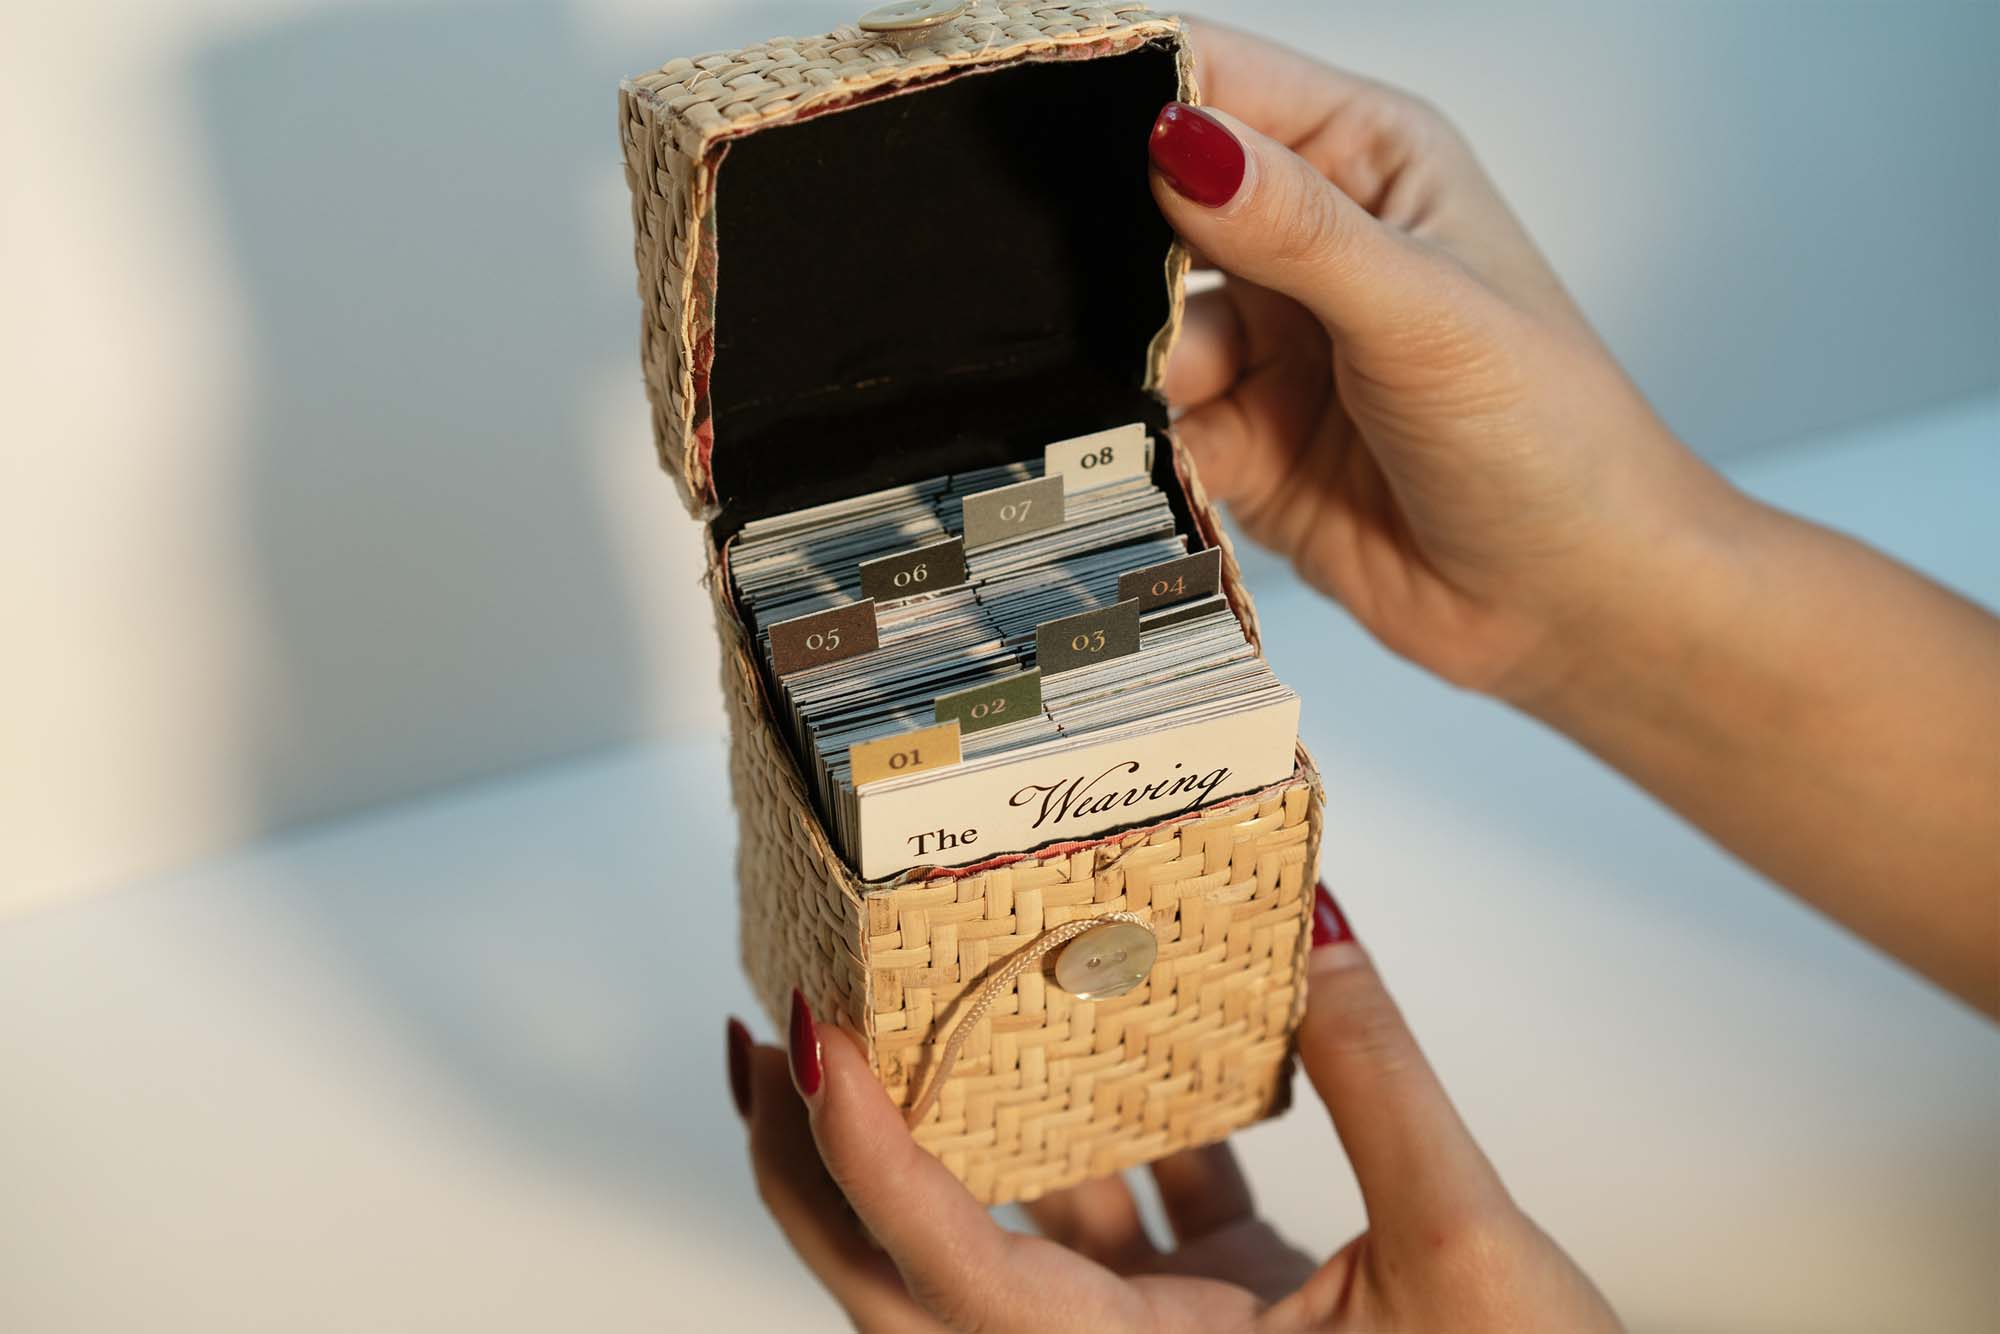
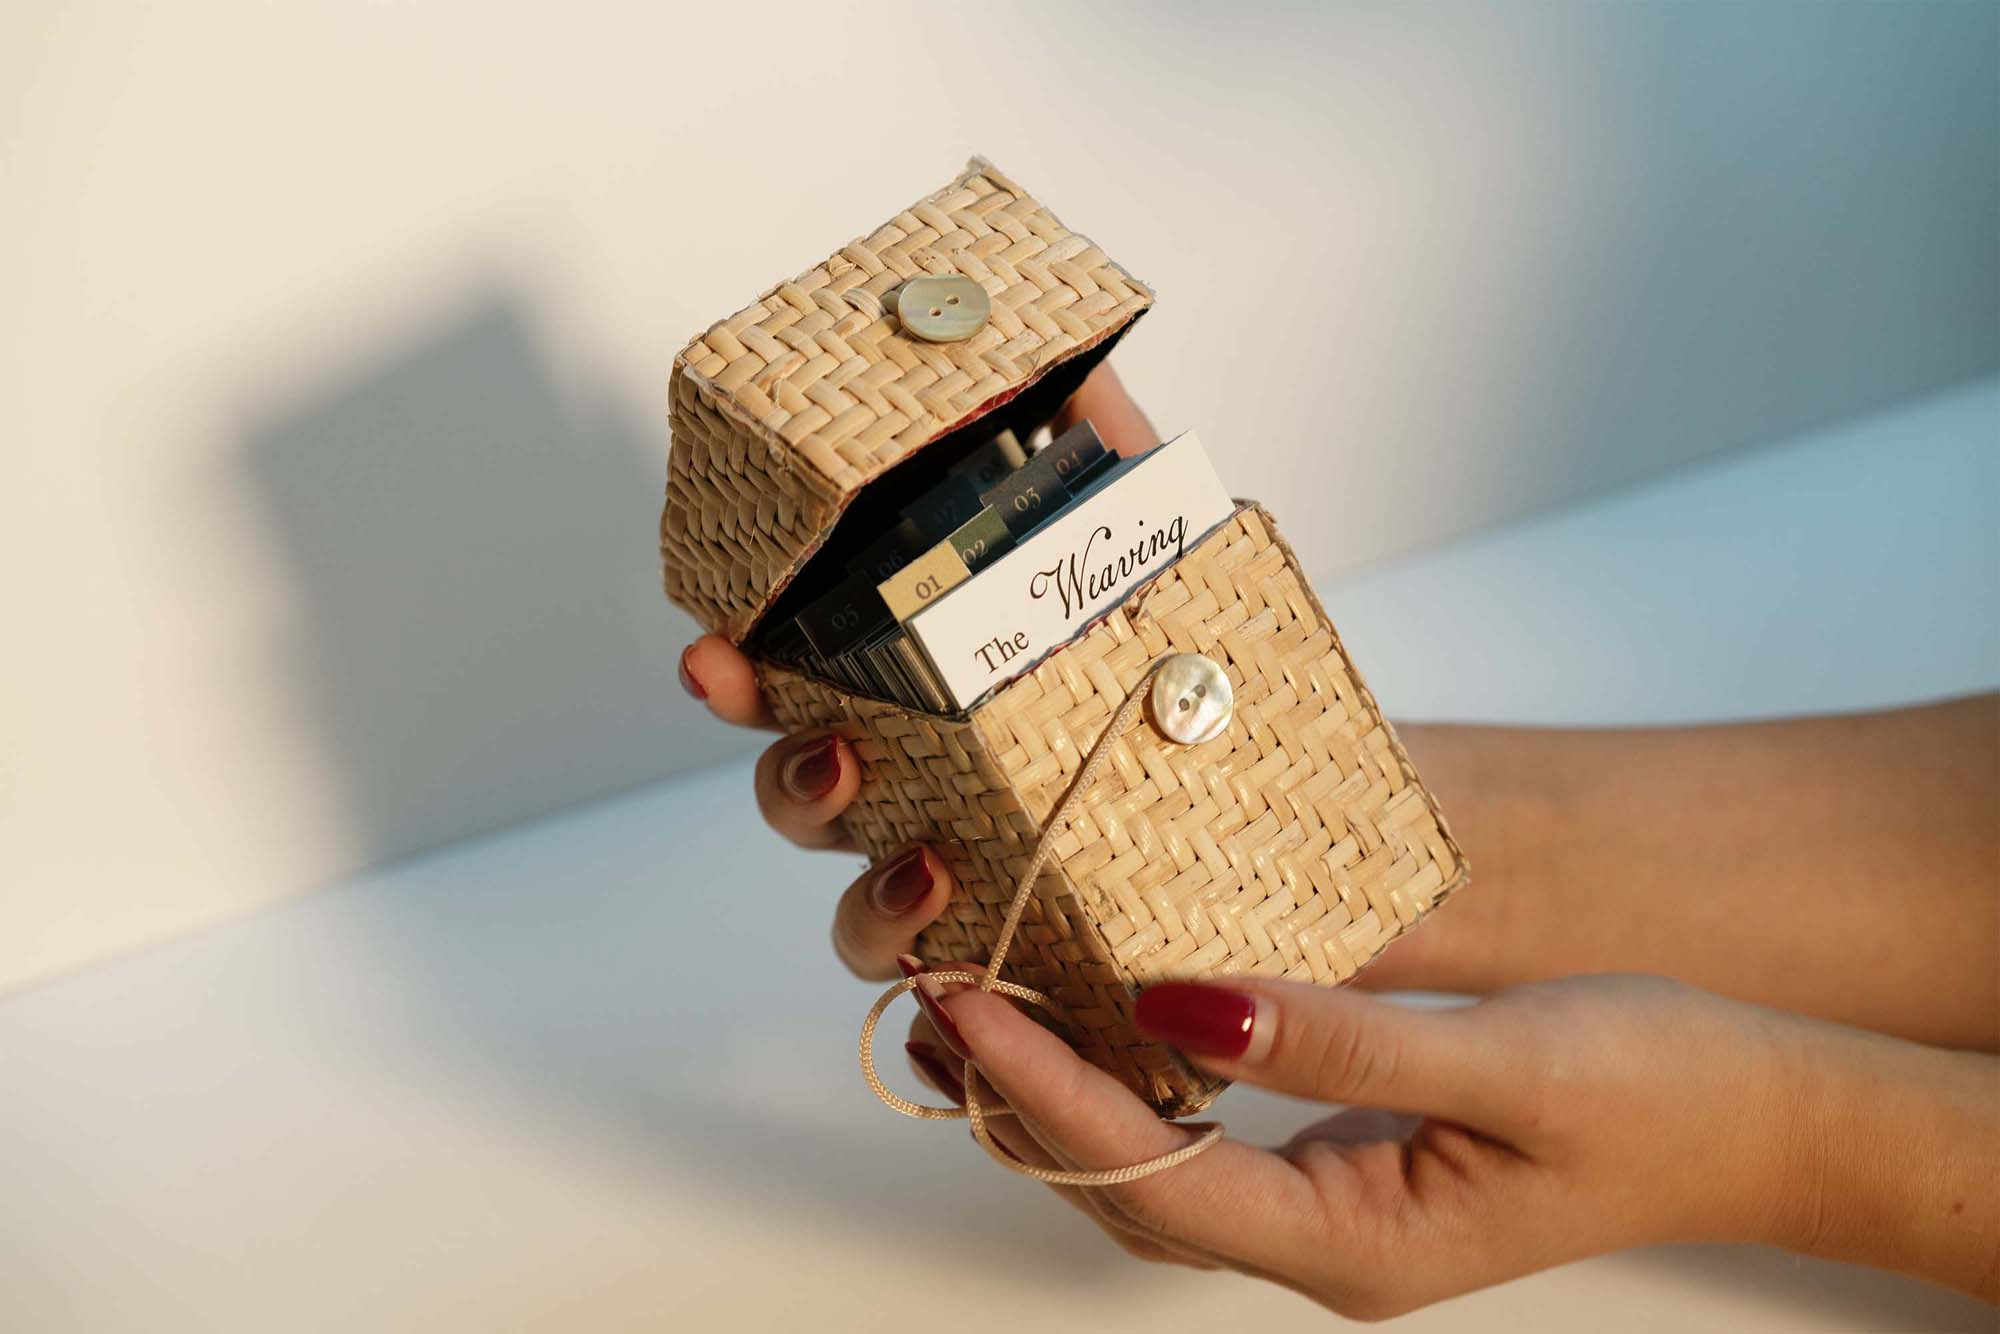
testing3

diff --git a/index.html b/index.html
@@ -160,7 +160,7 @@
                                     alt="Layered cyaotype installation showing humans and aquatic life."
                                     width="2400" height="1601" class="CommonImage-module-scss-module__qaK7rG__image"
                                     style="aspect-ratio:1.5"><img
-                                    src="images/install-detail-p.jpg"
+                                    src="./images/install-detail-p.jpg"
                                     alt="Layered cyaotype installation showing humans and aquatic life."
                                     width="2400" height="1556" class="CommonImage-module-scss-module__qaK7rG__image"
                                     style="aspect-ratio:1.5"></div>
@@ -186,13 +186,19 @@
                             <div class="SlideshowThumbnails-module-scss-module__l8fZQq__items"><button
                                     class="SlideshowThumbnails-module-scss-module__l8fZQq__item SlideshowThumbnails-module-scss-module__l8fZQq__ACTIVE"><img
                                         src="./images/install-cover.jpg"
-                                        alt="A kitchen dining nook with a built-in bench and an oval table set before a large arched window with a pendant light."
+                                        alt="Layered cyaotype installation showing humans and aquatic life."
                                         width="2400" height="1601"
                                         class="SlideshowThumbnails-module-scss-module__l8fZQq__image CommonImage-module-scss-module__qaK7rG__image"
                                         style="aspect-ratio:1.5"></button><button
                                     class="SlideshowThumbnails-module-scss-module__l8fZQq__item SlideshowThumbnails-module-scss-module__l8fZQq__INACTIVE"><img
                                         src="images/install-coverdark.jpg"
-                                        alt="A bedroom with taupe walls and double doors, a bed with a green headboard, and a freestanding mirror next to a window."
+                                        alt="Layered cyaotype installation showing humans and aquatic life with a stopmotion behind."
+                                        width="2400" height="1556"
+                                        class="SlideshowThumbnails-module-scss-module__l8fZQq__image CommonImage-module-scss-module__qaK7rG__image"
+                                        style="aspect-ratio:1.5"></button
+                                    class="SlideshowThumbnails-module-scss-module__l8fZQq__item SlideshowThumbnails-module-scss-module__l8fZQq__INACTIVE"><img
+                                        src="images/install-detail-h.jpg"
+                                        alt="Close up of layered cyaotype installation showing humans and aquatic life."
                                         width="2400" height="1556"
                                         class="SlideshowThumbnails-module-scss-module__l8fZQq__image CommonImage-module-scss-module__qaK7rG__image"
                                         style="aspect-ratio:1.5"></button>
@@ -212,7 +218,7 @@
                             href="bodiesofwater2.html"><span>Bodies of Water (2/2)</span></a>
                         <div class="SlideshowDefault-module-scss-module__XK5D_G__container">
                             <div class="SlideshowDefault-module-scss-module__XK5D_G__inner"><img
-                                    src="./images/thesis submission - cubes.jpg"
+                                    src="./images/cubes-cover.jpg"
                                     alt="Dining Table with wood chairs and fabric lantern" width="2400" height="1601"
                                     class="CommonImage-module-scss-module__qaK7rG__image" style="aspect-ratio:1.5"><img
                                     src="images/cubes-cover.jpg"
@@ -243,7 +249,7 @@
                             <div class="SlideshowThumbnails-module-scss-module__l8fZQq__items"><button
                                     class="SlideshowThumbnails-module-scss-module__l8fZQq__item SlideshowThumbnails-module-scss-module__l8fZQq__ACTIVE"><img
                                         src="images/cubes-cover.jpg"
-                                        alt="Dining Table with wood chairs and fabric lantern" width="2400"
+                                        alt="Artist book, container, and " width="2400"
                                         height="1601"
                                         class="SlideshowThumbnails-module-scss-module__l8fZQq__image CommonImage-module-scss-module__qaK7rG__image"
                                         style="aspect-ratio:1.5"></button><button
@@ -274,14 +280,14 @@
                             href="/theweaving.html"><span>The Weaving</span></a>
                         <div class="SlideshowDefault-module-scss-module__XK5D_G__container">
                             <div class="SlideshowDefault-module-scss-module__XK5D_G__inner"><img
-                                    src="./images/theweaving1.png"
+                                    src="./images/theweaving-cover.jpg"
                                     alt="Sophisticated Brownstone Living Room with english roll armchair, sofa and marble fireplace."
                                     width="2400" height="1601" class="CommonImage-module-scss-module__qaK7rG__image"
                                     style="aspect-ratio:1.5"><img
-                                    src="images/036fcff9a93e9408efc03560667c0a6f6bcb4d9a-3000x2001.jpg"
+                                    src="./images/theweaving-cover.jpg"
                                     alt="Devol Kitchen with green cabinets and plaster walls" width="2400" height="1601"
                                     class="CommonImage-module-scss-module__qaK7rG__image" style="aspect-ratio:1.5"><img
-                                    src="images/1054100f50995d278372588ea68fc53e7b048252-3000x2001.jpg"
+                                    src="./images/theweaving-cover.jpg"
                                     alt="Walnut dining room table with circular glass pendant above" width="2400"
                                     height="1601" class="CommonImage-module-scss-module__qaK7rG__image"
                                     style="aspect-ratio:1.5"></div>
@@ -289,7 +295,7 @@
                         <div
                             class="ProjectCard-module-scss-module__pM93sa__details ProjectCardDetails-module-scss-module__4TMqsW__container ProjectCardDetails-module-scss-module__4TMqsW__DEFAULT">
                             <a class="common-link ProjectCardDetails-module-scss-module__4TMqsW__link"
-                                href="/theweaving.html"><span>
+                                href="./theweaving.html"><span>
                                     <h3>The Weaving</h3><span
                                         class="ProjectCardDetails-module-scss-module__4TMqsW__cover"></span>
                                 </span></a>
@@ -306,26 +312,26 @@
                         <div class="ProjectCard-module-scss-module__pM93sa__thumbnails">
                             <div class="SlideshowThumbnails-module-scss-module__l8fZQq__items"><button
                                     class="SlideshowThumbnails-module-scss-module__l8fZQq__item SlideshowThumbnails-module-scss-module__l8fZQq__ACTIVE"><img
-                                        src="images/1c85fc7ba8fd1dc700cb09cca5e84b00a646729e-3000x2001.jpg"
+                                        src="./images/theweaving-cover.jpg"
                                         alt="Sophisticated Brownstone Living Room with english roll armchair, sofa and marble fireplace."
                                         width="2400" height="1601"
                                         class="SlideshowThumbnails-module-scss-module__l8fZQq__image CommonImage-module-scss-module__qaK7rG__image"
                                         style="aspect-ratio:1.5"></button><button
                                     class="SlideshowThumbnails-module-scss-module__l8fZQq__item SlideshowThumbnails-module-scss-module__l8fZQq__INACTIVE"><img
-                                        src="images/036fcff9a93e9408efc03560667c0a6f6bcb4d9a-3000x2001.jpg"
+                                        src="./images/theweaving-overview.jpg"
                                         alt="Devol Kitchen with green cabinets and plaster walls" width="2400"
                                         height="1601"
                                         class="SlideshowThumbnails-module-scss-module__l8fZQq__image CommonImage-module-scss-module__qaK7rG__image"
                                         style="aspect-ratio:1.5"></button><button
                                     class="SlideshowThumbnails-module-scss-module__l8fZQq__item SlideshowThumbnails-module-scss-module__l8fZQq__INACTIVE"><img
-                                        src="images/1054100f50995d278372588ea68fc53e7b048252-3000x2001.jpg"
+                                        src="./images/theweaving-cards.jpg"
                                         alt="Walnut dining room table with circular glass pendant above" width="2400"
                                         height="1601"
                                         class="SlideshowThumbnails-module-scss-module__l8fZQq__image CommonImage-module-scss-module__qaK7rG__image"
                                         style="aspect-ratio:1.5"></button>
                                 <div
                                     class="SlideshowThumbnails-module-scss-module__l8fZQq__item SlideshowThumbnails-module-scss-module__l8fZQq__remaining">
-                                    6<!-- -->+</div>
+                                    8<!-- -->+</div>
                             </div>
                         </div><a class="common-link ProjectCard-module-scss-module__pM93sa__mobileLink"
                             href="./theweaving.html"><span> </span></a>
@@ -376,7 +382,7 @@
                             class="contact-link-item common-link">
                             <span class="contact-link-item__key">Instagram: @jaqaileen ↗</span>
                         </a>
-                        <a href="https://instagram.com/jaqaileen" target="_blank" rel="noopener noreferrer"
+                        <a href="https://www.linkedin.com/in/jaq-aileen-283b62296/" target="_blank" rel="noopener noreferrer"
                             class="contact-link-item common-link">
                             <span class="contact-link-item__key">LinkedIn: @jaqaileen ↗</span>
                         </a>
